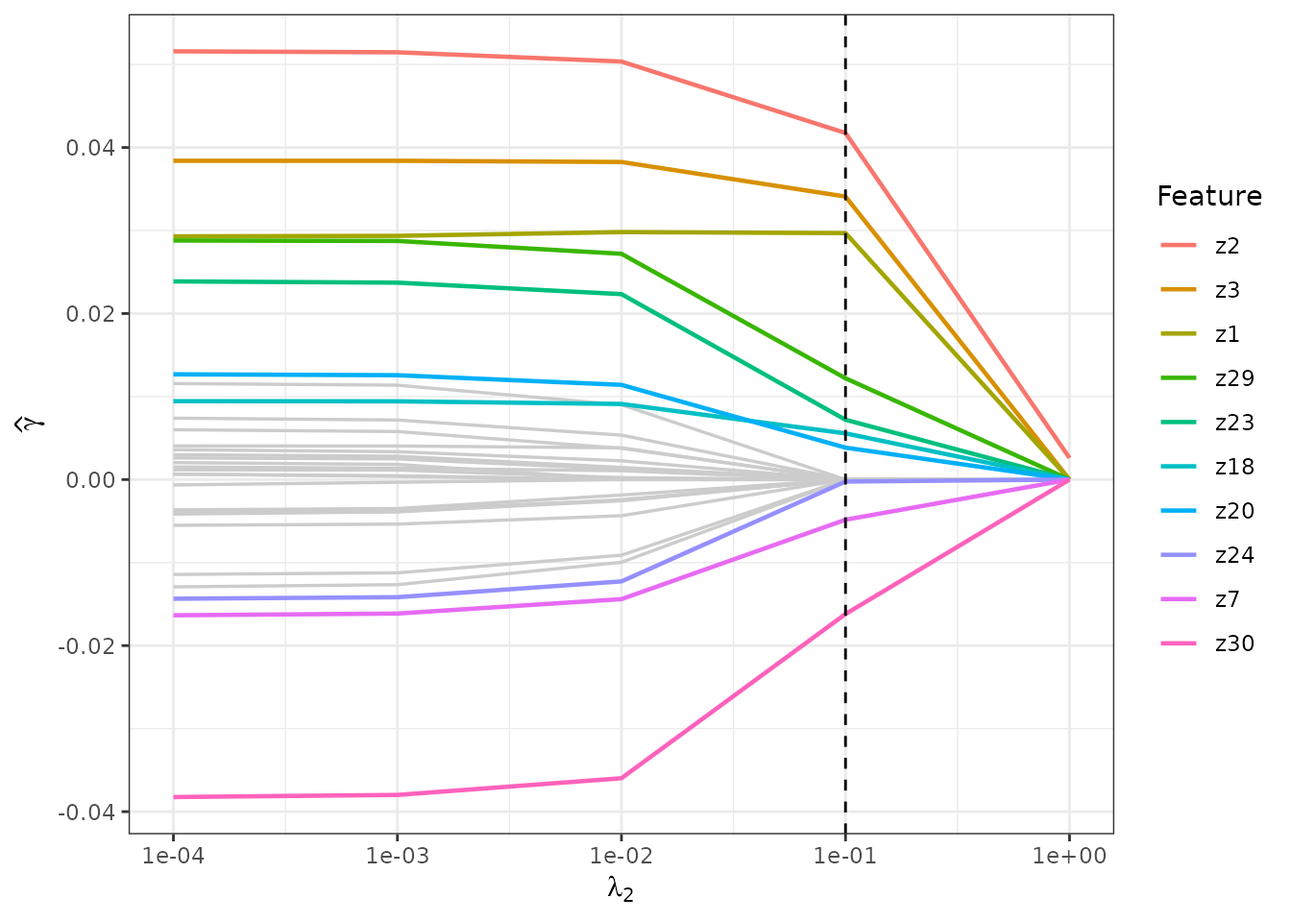
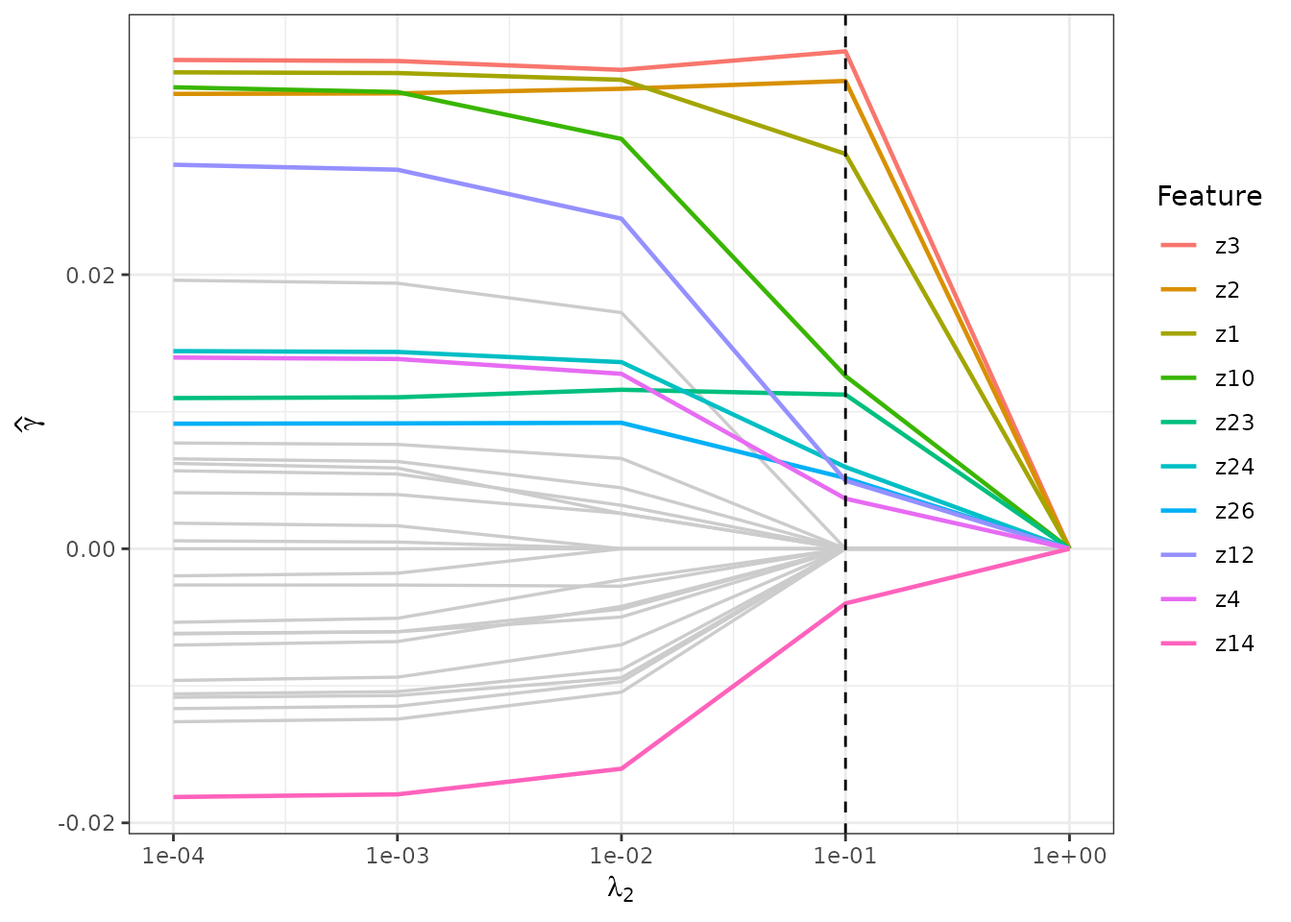
Deploying to gh-pages from @ rajan-shankar/ccreds@e83635300465986387b761c8b1dbfe0ec465d88c 🚀

diff --git a/articles/ccreds-workflow.html b/articles/ccreds-workflow.html
@@ -111,7 +111,7 @@ overlapping support, so that some features affect only the response,
 some affect only the censored covariate, and some affect both. We set
 the censoring rate to be approximately 50%.</p>
 <div class="sourceCode" id="cb2"><pre class="downlit sourceCode r">
-<code class="sourceCode R"><span><span class="fu"><a href="https://rdrr.io/r/base/Random.html" class="external-link">set.seed</a></span><span class="op">(</span><span class="fl">8371</span><span class="op">)</span></span>
+<code class="sourceCode R"><span><span class="fu"><a href="https://rdrr.io/r/base/Random.html" class="external-link">set.seed</a></span><span class="op">(</span><span class="fl">2026</span><span class="op">)</span></span>
 <span></span>
 <span><span class="va">n</span> <span class="op">&lt;-</span> <span class="fl">200</span></span>
 <span><span class="va">p</span> <span class="op">&lt;-</span> <span class="fl">30</span></span>
@@ -165,27 +165,27 @@ the censoring rate to be approximately 50%.</p>
 <span></span>
 <span><span class="va">dat</span></span>
 <span><span class="co">#&gt; <span style="color: #949494;"># A tibble: 200 × 34</span></span></span>
-<span><span class="co">#&gt;     case     y     w     d        z1     z2      z3        z4      z5    z6</span></span>
-<span><span class="co">#&gt;    <span style="color: #949494; font-style: italic;">&lt;int&gt;</span> <span style="color: #949494; font-style: italic;">&lt;dbl&gt;</span> <span style="color: #949494; font-style: italic;">&lt;dbl&gt;</span> <span style="color: #949494; font-style: italic;">&lt;dbl&gt;</span>     <span style="color: #949494; font-style: italic;">&lt;dbl&gt;</span>  <span style="color: #949494; font-style: italic;">&lt;dbl&gt;</span>   <span style="color: #949494; font-style: italic;">&lt;dbl&gt;</span>     <span style="color: #949494; font-style: italic;">&lt;dbl&gt;</span>   <span style="color: #949494; font-style: italic;">&lt;dbl&gt;</span> <span style="color: #949494; font-style: italic;">&lt;dbl&gt;</span></span></span>
-<span><span class="co">#&gt; <span style="color: #BCBCBC;"> 1</span>     1  70.9  4.58     0 -<span style="color: #BB0000;">3.65</span>     -<span style="color: #BB0000;">1.37</span>   5.27   10.2       4.54    7.54</span></span>
-<span><span class="co">#&gt; <span style="color: #BCBCBC;"> 2</span>     2 157.  12.6      0  2.78      4.35   3.78    5.21      7.00    1.56</span></span>
-<span><span class="co">#&gt; <span style="color: #BCBCBC;"> 3</span>     3 156.  12.0      1  1.80     -<span style="color: #BB0000;">0.182</span> -<span style="color: #BB0000;">1.09</span>   -<span style="color: #BB0000;">3.97</span>     -<span style="color: #BB0000;">2.81</span>    1.44</span></span>
-<span><span class="co">#&gt; <span style="color: #BCBCBC;"> 4</span>     4  26.4  4.13     1  0.227    -<span style="color: #BB0000;">1.15</span>  -<span style="color: #BB0000;">1.44</span>   -<span style="color: #BB0000;">6.43</span>     -<span style="color: #BB0000;">5.97</span>   -<span style="color: #BB0000;">1.22</span></span></span>
-<span><span class="co">#&gt; <span style="color: #BCBCBC;"> 5</span>     5  45.3  5.27     1 -<span style="color: #BB0000;">1.56</span>     -<span style="color: #BB0000;">2.30</span>   0.606   0.970     6.37    5.09</span></span>
-<span><span class="co">#&gt; <span style="color: #BCBCBC;"> 6</span>     6 122.   2.02     0 -<span style="color: #BB0000;">0.000</span><span style="color: #BB0000; text-decoration: underline;">930</span> -<span style="color: #BB0000;">2.10</span>   0.476  -<span style="color: #BB0000;">2.46</span>      5.04    4.09</span></span>
-<span><span class="co">#&gt; <span style="color: #BCBCBC;"> 7</span>     7  24.9  1.37     0 -<span style="color: #BB0000;">3.73</span>     -<span style="color: #BB0000;">4.34</span>  -<span style="color: #BB0000;">1.58</span>   -<span style="color: #BB0000;">0.000</span><span style="color: #BB0000; text-decoration: underline;">185</span>  0.026<span style="text-decoration: underline;">0</span>  3.69</span></span>
-<span><span class="co">#&gt; <span style="color: #BCBCBC;"> 8</span>     8 128.   7.74     1 -<span style="color: #BB0000;">0.091</span><span style="color: #BB0000; text-decoration: underline;">1</span>    3.58   2.09    2.92      5.13    1.11</span></span>
-<span><span class="co">#&gt; <span style="color: #BCBCBC;"> 9</span>     9  96.6  7.02     1 -<span style="color: #BB0000;">0.101</span>     2.45   2.64    1.69      1.21    2.16</span></span>
-<span><span class="co">#&gt; <span style="color: #BCBCBC;">10</span>    10 113.   5.54     0 -<span style="color: #BB0000;">4.11</span>     -<span style="color: #BB0000;">1.80</span>   0.093<span style="text-decoration: underline;">6</span> -<span style="color: #BB0000;">4.47</span>     -<span style="color: #BB0000;">1.48</span>   -<span style="color: #BB0000;">1.56</span></span></span>
+<span><span class="co">#&gt;     case      y     w     d     z1      z2     z3       z4     z5      z6    z7</span></span>
+<span><span class="co">#&gt;    <span style="color: #949494; font-style: italic;">&lt;int&gt;</span>  <span style="color: #949494; font-style: italic;">&lt;dbl&gt;</span> <span style="color: #949494; font-style: italic;">&lt;dbl&gt;</span> <span style="color: #949494; font-style: italic;">&lt;dbl&gt;</span>  <span style="color: #949494; font-style: italic;">&lt;dbl&gt;</span>   <span style="color: #949494; font-style: italic;">&lt;dbl&gt;</span>  <span style="color: #949494; font-style: italic;">&lt;dbl&gt;</span>    <span style="color: #949494; font-style: italic;">&lt;dbl&gt;</span>  <span style="color: #949494; font-style: italic;">&lt;dbl&gt;</span>   <span style="color: #949494; font-style: italic;">&lt;dbl&gt;</span> <span style="color: #949494; font-style: italic;">&lt;dbl&gt;</span></span></span>
+<span><span class="co">#&gt; <span style="color: #BCBCBC;"> 1</span>     1  -<span style="color: #BB0000;">6.33</span>  3.72     0 -<span style="color: #BB0000;">3.80</span>  -<span style="color: #BB0000;">3.24</span>   -<span style="color: #BB0000;">1.85</span>  -<span style="color: #BB0000;">0.023</span><span style="color: #BB0000; text-decoration: underline;">1</span>  -<span style="color: #BB0000;">3.34</span>  -<span style="color: #BB0000;">1.43</span>    4.59</span></span>
+<span><span class="co">#&gt; <span style="color: #BCBCBC;"> 2</span>     2  23.5   3.46     1 -<span style="color: #BB0000;">4.53</span>  -<span style="color: #BB0000;">0.069</span><span style="color: #BB0000; text-decoration: underline;">0</span> -<span style="color: #BB0000;">3.93</span>   2.98     7.22   5.55    2.89</span></span>
+<span><span class="co">#&gt; <span style="color: #BCBCBC;"> 3</span>     3  -<span style="color: #BB0000;">3.79</span>  2.85     0  0.698 -<span style="color: #BB0000;">7.17</span>   -<span style="color: #BB0000;">6.90</span>  -<span style="color: #BB0000;">1.07</span>     2.17  -<span style="color: #BB0000;">1.17</span>   -<span style="color: #BB0000;">1.55</span></span></span>
+<span><span class="co">#&gt; <span style="color: #BCBCBC;"> 4</span>     4  -<span style="color: #BB0000;">2.67</span>  3.63     1 -<span style="color: #BB0000;">5.12</span>  -<span style="color: #BB0000;">0.847</span>  -<span style="color: #BB0000;">0.182</span> -<span style="color: #BB0000;">4.16</span>    -<span style="color: #BB0000;">2.85</span>  -<span style="color: #BB0000;">4.43</span>   -<span style="color: #BB0000;">4.50</span></span></span>
+<span><span class="co">#&gt; <span style="color: #BCBCBC;"> 5</span>     5 159.    7.11     0  3.32  -<span style="color: #BB0000;">0.365</span>  -<span style="color: #BB0000;">1.42</span>  -<span style="color: #BB0000;">4.99</span>     0.946  0.200   2.99</span></span>
+<span><span class="co">#&gt; <span style="color: #BCBCBC;"> 6</span>     6  95.5   3.86     0  1.23  -<span style="color: #BB0000;">1.26</span>    3.49   0.007<span style="text-decoration: underline;">96</span>  3.45   0.059<span style="text-decoration: underline;">4</span>  2.18</span></span>
+<span><span class="co">#&gt; <span style="color: #BCBCBC;"> 7</span>     7   5.01  4.32     1 -<span style="color: #BB0000;">3.31</span>   2.51    3.72   4.71     3.38   4.61    3.32</span></span>
+<span><span class="co">#&gt; <span style="color: #BCBCBC;"> 8</span>     8 173.    6.34     0  1.74   0.959   0.681  1.35     4.43   5.00    2.85</span></span>
+<span><span class="co">#&gt; <span style="color: #BCBCBC;"> 9</span>     9 226.   11.2      0  5.11   4.75    2.92  -<span style="color: #BB0000;">0.642</span>    0.462 -<span style="color: #BB0000;">1.39</span>   -<span style="color: #BB0000;">5.84</span></span></span>
+<span><span class="co">#&gt; <span style="color: #BCBCBC;">10</span>    10  54.8   8.13     1  1.18  -<span style="color: #BB0000;">1.45</span>    2.00  -<span style="color: #BB0000;">0.840</span>   -<span style="color: #BB0000;">0.143</span>  2.43    2.77</span></span>
 <span><span class="co">#&gt; <span style="color: #949494;"># ℹ 190 more rows</span></span></span>
-<span><span class="co">#&gt; <span style="color: #949494;"># ℹ 24 more variables: z7 &lt;dbl&gt;, z8 &lt;dbl&gt;, z9 &lt;dbl&gt;, z10 &lt;dbl&gt;, z11 &lt;dbl&gt;,</span></span></span>
-<span><span class="co">#&gt; <span style="color: #949494;">#   z12 &lt;dbl&gt;, z13 &lt;dbl&gt;, z14 &lt;dbl&gt;, z15 &lt;dbl&gt;, z16 &lt;dbl&gt;, z17 &lt;dbl&gt;,</span></span></span>
-<span><span class="co">#&gt; <span style="color: #949494;">#   z18 &lt;dbl&gt;, z19 &lt;dbl&gt;, z20 &lt;dbl&gt;, z21 &lt;dbl&gt;, z22 &lt;dbl&gt;, z23 &lt;dbl&gt;,</span></span></span>
-<span><span class="co">#&gt; <span style="color: #949494;">#   z24 &lt;dbl&gt;, z25 &lt;dbl&gt;, z26 &lt;dbl&gt;, z27 &lt;dbl&gt;, z28 &lt;dbl&gt;, z29 &lt;dbl&gt;, z30 &lt;dbl&gt;</span></span></span></code></pre></div>
+<span><span class="co">#&gt; <span style="color: #949494;"># ℹ 23 more variables: z8 &lt;dbl&gt;, z9 &lt;dbl&gt;, z10 &lt;dbl&gt;, z11 &lt;dbl&gt;, z12 &lt;dbl&gt;,</span></span></span>
+<span><span class="co">#&gt; <span style="color: #949494;">#   z13 &lt;dbl&gt;, z14 &lt;dbl&gt;, z15 &lt;dbl&gt;, z16 &lt;dbl&gt;, z17 &lt;dbl&gt;, z18 &lt;dbl&gt;,</span></span></span>
+<span><span class="co">#&gt; <span style="color: #949494;">#   z19 &lt;dbl&gt;, z20 &lt;dbl&gt;, z21 &lt;dbl&gt;, z22 &lt;dbl&gt;, z23 &lt;dbl&gt;, z24 &lt;dbl&gt;,</span></span></span>
+<span><span class="co">#&gt; <span style="color: #949494;">#   z25 &lt;dbl&gt;, z26 &lt;dbl&gt;, z27 &lt;dbl&gt;, z28 &lt;dbl&gt;, z29 &lt;dbl&gt;, z30 &lt;dbl&gt;</span></span></span></code></pre></div>
 <div class="sourceCode" id="cb3"><pre class="downlit sourceCode r">
 <code class="sourceCode R"><span><span class="co"># Censoring rate should be approximately 50%</span></span>
 <span><span class="fu"><a href="https://rdrr.io/r/base/mean.html" class="external-link">mean</a></span><span class="op">(</span><span class="va">dat</span><span class="op">$</span><span class="va">d</span> <span class="op">==</span> <span class="fl">0</span><span class="op">)</span></span>
-<span><span class="co">#&gt; [1] 0.475</span></span></code></pre></div>
+<span><span class="co">#&gt; [1] 0.46</span></span></code></pre></div>
 </div>
 <div class="section level2">
 <h2 id="fit-the-model">Fit the model<a class="anchor" aria-label="anchor" href="#fit-the-model"></a>
@@ -208,23 +208,24 @@ would use a finer grid and potentially run in parallel with
 <span><span class="co">#&gt; <span style="color: #949494;"># A tibble: 25 × 8</span></span></span>
 <span><span class="co">#&gt;    lambda_1 lambda_2 full_fit          CV_MAE_y CV_MAE_y_SE CV_MAE_x CV_MAE_x_SE</span></span>
 <span><span class="co">#&gt;       <span style="color: #949494; font-style: italic;">&lt;dbl&gt;</span>    <span style="color: #949494; font-style: italic;">&lt;dbl&gt;</span> <span style="color: #949494; font-style: italic;">&lt;list&gt;</span>               <span style="color: #949494; font-style: italic;">&lt;dbl&gt;</span>       <span style="color: #949494; font-style: italic;">&lt;dbl&gt;</span>    <span style="color: #949494; font-style: italic;">&lt;dbl&gt;</span>       <span style="color: #949494; font-style: italic;">&lt;dbl&gt;</span></span></span>
-<span><span class="co">#&gt; <span style="color: #BCBCBC;"> 1</span>   0.000<span style="text-decoration: underline;">1</span>   0.000<span style="text-decoration: underline;">1</span> <span style="color: #949494;">&lt;named list [13]&gt;</span>     32.7        1.77     2.92       0.267</span></span>
-<span><span class="co">#&gt; <span style="color: #BCBCBC;"> 2</span>   0.000<span style="text-decoration: underline;">1</span>   0.001  <span style="color: #949494;">&lt;named list [13]&gt;</span>     32.6        1.76     2.92       0.265</span></span>
-<span><span class="co">#&gt; <span style="color: #BCBCBC;"> 3</span>   0.000<span style="text-decoration: underline;">1</span>   0.01   <span style="color: #949494;">&lt;named list [13]&gt;</span>     32.1        1.58     2.88       0.243</span></span>
-<span><span class="co">#&gt; <span style="color: #BCBCBC;"> 4</span>   0.000<span style="text-decoration: underline;">1</span>   0.1    <span style="color: #949494;">&lt;named list [13]&gt;</span>     29.8        1.52     2.70       0.160</span></span>
-<span><span class="co">#&gt; <span style="color: #BCBCBC;"> 5</span>   0.000<span style="text-decoration: underline;">1</span>   1      <span style="color: #949494;">&lt;named list [13]&gt;</span>     33.4        1.23     3.00       0.204</span></span>
-<span><span class="co">#&gt; <span style="color: #BCBCBC;"> 6</span>   0.001    0.000<span style="text-decoration: underline;">1</span> <span style="color: #949494;">&lt;named list [13]&gt;</span>     32.7        1.79     2.92       0.268</span></span>
-<span><span class="co">#&gt; <span style="color: #BCBCBC;"> 7</span>   0.001    0.001  <span style="color: #949494;">&lt;named list [13]&gt;</span>     32.6        1.77     2.92       0.266</span></span>
-<span><span class="co">#&gt; <span style="color: #BCBCBC;"> 8</span>   0.001    0.01   <span style="color: #949494;">&lt;named list [13]&gt;</span>     32.0        1.59     2.88       0.244</span></span>
-<span><span class="co">#&gt; <span style="color: #BCBCBC;"> 9</span>   0.001    0.1    <span style="color: #949494;">&lt;named list [13]&gt;</span>     29.7        1.50     2.69       0.160</span></span>
-<span><span class="co">#&gt; <span style="color: #BCBCBC;">10</span>   0.001    1      <span style="color: #949494;">&lt;named list [13]&gt;</span>     33.4        1.22     3.00       0.203</span></span>
+<span><span class="co">#&gt; <span style="color: #BCBCBC;"> 1</span>   0.000<span style="text-decoration: underline;">1</span>   0.000<span style="text-decoration: underline;">1</span> <span style="color: #949494;">&lt;named list [13]&gt;</span>     38.9        2.64     3.19       0.401</span></span>
+<span><span class="co">#&gt; <span style="color: #BCBCBC;"> 2</span>   0.000<span style="text-decoration: underline;">1</span>   0.001  <span style="color: #949494;">&lt;named list [13]&gt;</span>     38.9        2.63     3.19       0.399</span></span>
+<span><span class="co">#&gt; <span style="color: #BCBCBC;"> 3</span>   0.000<span style="text-decoration: underline;">1</span>   0.01   <span style="color: #949494;">&lt;named list [13]&gt;</span>     38.7        2.48     3.15       0.380</span></span>
+<span><span class="co">#&gt; <span style="color: #BCBCBC;"> 4</span>   0.000<span style="text-decoration: underline;">1</span>   0.1    <span style="color: #949494;">&lt;named list [13]&gt;</span>     37.3        1.85     2.93       0.300</span></span>
+<span><span class="co">#&gt; <span style="color: #BCBCBC;"> 5</span>   0.000<span style="text-decoration: underline;">1</span>   1      <span style="color: #949494;">&lt;named list [13]&gt;</span>     40.1        1.28     2.97       0.178</span></span>
+<span><span class="co">#&gt; <span style="color: #BCBCBC;"> 6</span>   0.001    0.000<span style="text-decoration: underline;">1</span> <span style="color: #949494;">&lt;named list [13]&gt;</span>     38.9        2.68     3.18       0.400</span></span>
+<span><span class="co">#&gt; <span style="color: #BCBCBC;"> 7</span>   0.001    0.001  <span style="color: #949494;">&lt;named list [13]&gt;</span>     38.8        2.67     3.18       0.398</span></span>
+<span><span class="co">#&gt; <span style="color: #BCBCBC;"> 8</span>   0.001    0.01   <span style="color: #949494;">&lt;named list [13]&gt;</span>     38.7        2.52     3.14       0.378</span></span>
+<span><span class="co">#&gt; <span style="color: #BCBCBC;"> 9</span>   0.001    0.1    <span style="color: #949494;">&lt;named list [13]&gt;</span>     37.2        1.93     2.91       0.300</span></span>
+<span><span class="co">#&gt; <span style="color: #BCBCBC;">10</span>   0.001    1      <span style="color: #949494;">&lt;named list [13]&gt;</span>     40.1        1.21     2.96       0.178</span></span>
 <span><span class="co">#&gt; <span style="color: #949494;"># ℹ 15 more rows</span></span></span>
 <span><span class="co">#&gt; <span style="color: #949494;"># ℹ 1 more variable: time &lt;drtn&gt;</span></span></span>
 <span></span>
 <span><span class="fu"><a href="https://rdrr.io/r/base/Round.html" class="external-link">round</a></span><span class="op">(</span><span class="va">results</span><span class="op">$</span><span class="va">time</span>, digits <span class="op">=</span> <span class="fl">2</span><span class="op">)</span></span>
 <span><span class="co">#&gt; Time differences in secs</span></span>
-<span><span class="co">#&gt;  [1] 7.30 6.89 6.78 6.10 5.90 5.85 5.88 5.92 5.25 5.27 4.01 4.08 3.94 3.60 3.83</span></span>
-<span><span class="co">#&gt; [16] 2.91 2.91 2.91 2.66 2.72 2.92 2.76 2.81 2.58 2.55</span></span></code></pre></div>
+<span><span class="co">#&gt;  [1] 10.50  9.97  9.63  8.85  8.06  8.78  8.70  8.68  7.90  7.19  5.59  5.67</span></span>
+<span><span class="co">#&gt; [13]  5.49  4.97  4.50  4.01  3.98  3.92  3.23  2.93  4.39  4.21  4.17  3.64</span></span>
+<span><span class="co">#&gt; [25]  3.18</span></span></code></pre></div>
 </div>
 <div class="section level2">
 <h2 id="identify-the-best-model">Identify the best model<a class="anchor" aria-label="anchor" href="#identify-the-best-model"></a>
@@ -248,12 +249,12 @@ to the truth:</p>
 <span><span class="co">#&gt; <span style="color: #949494;"># A tibble: 30 × 3</span></span></span>
 <span><span class="co">#&gt;    feature true_beta estimated_beta</span></span>
 <span><span class="co">#&gt;    <span style="color: #949494; font-style: italic;">&lt;chr&gt;</span>       <span style="color: #949494; font-style: italic;">&lt;dbl&gt;</span>          <span style="color: #949494; font-style: italic;">&lt;dbl&gt;</span></span></span>
-<span><span class="co">#&gt; <span style="color: #BCBCBC;"> 1</span> z1              4          3.23 </span></span>
+<span><span class="co">#&gt; <span style="color: #BCBCBC;"> 1</span> z1              4          3.51 </span></span>
 <span><span class="co">#&gt; <span style="color: #BCBCBC;"> 2</span> z2              4          4.34 </span></span>
-<span><span class="co">#&gt; <span style="color: #BCBCBC;"> 3</span> z3              2          1.54 </span></span>
+<span><span class="co">#&gt; <span style="color: #BCBCBC;"> 3</span> z3              2          1.38 </span></span>
 <span><span class="co">#&gt; <span style="color: #BCBCBC;"> 4</span> z4              0          0    </span></span>
-<span><span class="co">#&gt; <span style="color: #BCBCBC;"> 5</span> z5              0          0    </span></span>
-<span><span class="co">#&gt; <span style="color: #BCBCBC;"> 6</span> z6              0          0.329</span></span>
+<span><span class="co">#&gt; <span style="color: #BCBCBC;"> 5</span> z5              0          0.161</span></span>
+<span><span class="co">#&gt; <span style="color: #BCBCBC;"> 6</span> z6              0          0    </span></span>
 <span><span class="co">#&gt; <span style="color: #BCBCBC;"> 7</span> z7              0          0    </span></span>
 <span><span class="co">#&gt; <span style="color: #BCBCBC;"> 8</span> z8              0          0    </span></span>
 <span><span class="co">#&gt; <span style="color: #BCBCBC;"> 9</span> z9              0          0    </span></span>
@@ -269,23 +270,23 @@ to the truth:</p>
 <span><span class="co">#&gt; <span style="color: #949494;"># A tibble: 30 × 3</span></span></span>
 <span><span class="co">#&gt;    feature true_gamma estimated_gamma</span></span>
 <span><span class="co">#&gt;    <span style="color: #949494; font-style: italic;">&lt;chr&gt;</span>        <span style="color: #949494; font-style: italic;">&lt;dbl&gt;</span>           <span style="color: #949494; font-style: italic;">&lt;dbl&gt;</span></span></span>
-<span><span class="co">#&gt; <span style="color: #BCBCBC;"> 1</span> z1            0.04         0.029<span style="text-decoration: underline;">7</span> </span></span>
-<span><span class="co">#&gt; <span style="color: #BCBCBC;"> 2</span> z2            0.04         0.041<span style="text-decoration: underline;">8</span> </span></span>
-<span><span class="co">#&gt; <span style="color: #BCBCBC;"> 3</span> z3            0.02         0.034<span style="text-decoration: underline;">1</span> </span></span>
-<span><span class="co">#&gt; <span style="color: #BCBCBC;"> 4</span> z4            0.02         0      </span></span>
+<span><span class="co">#&gt; <span style="color: #BCBCBC;"> 1</span> z1            0.04         0.028<span style="text-decoration: underline;">8</span> </span></span>
+<span><span class="co">#&gt; <span style="color: #BCBCBC;"> 2</span> z2            0.04         0.034<span style="text-decoration: underline;">1</span> </span></span>
+<span><span class="co">#&gt; <span style="color: #BCBCBC;"> 3</span> z3            0.02         0.036<span style="text-decoration: underline;">3</span> </span></span>
+<span><span class="co">#&gt; <span style="color: #BCBCBC;"> 4</span> z4            0.02         0.003<span style="text-decoration: underline;">65</span></span></span>
 <span><span class="co">#&gt; <span style="color: #BCBCBC;"> 5</span> z5            0            0      </span></span>
 <span><span class="co">#&gt; <span style="color: #BCBCBC;"> 6</span> z6            0            0      </span></span>
-<span><span class="co">#&gt; <span style="color: #BCBCBC;"> 7</span> z7            0           -<span style="color: #BB0000;">0.004</span><span style="color: #BB0000; text-decoration: underline;">84</span></span></span>
+<span><span class="co">#&gt; <span style="color: #BCBCBC;"> 7</span> z7            0            0      </span></span>
 <span><span class="co">#&gt; <span style="color: #BCBCBC;"> 8</span> z8            0            0      </span></span>
 <span><span class="co">#&gt; <span style="color: #BCBCBC;"> 9</span> z9            0            0      </span></span>
-<span><span class="co">#&gt; <span style="color: #BCBCBC;">10</span> z10           0            0      </span></span>
+<span><span class="co">#&gt; <span style="color: #BCBCBC;">10</span> z10           0            0.012<span style="text-decoration: underline;">6</span> </span></span>
 <span><span class="co">#&gt; <span style="color: #949494;"># ℹ 20 more rows</span></span></span></code></pre></div>
 </div>
 <div class="section level2">
 <h2 id="visualise-cross-validation-heatmap">Visualise: Cross-validation heatmap<a class="anchor" aria-label="anchor" href="#visualise-cross-validation-heatmap"></a>
 </h2>
 <p><code><a href="../reference/plot_cv.html">plot_cv()</a></code> shows how the CV metric varies over the
-penalty grid. The white cross marks the optimal pair.</p>
+penalty grid. The red cross marks the optimal pair.</p>
 <div class="sourceCode" id="cb7"><pre class="downlit sourceCode r">
 <code class="sourceCode R"><span><span class="fu"><a href="../reference/plot_cv.html">plot_cv</a></span><span class="op">(</span><span class="va">results</span><span class="op">)</span></span></code></pre></div>
 <p><img src="ccreds-workflow_files/figure-html/plot-cv-1.png" class="r-plt" alt="Heatmap of cross-validated MAE over the lambda grid." width="672"></p>

diff --git a/articles/ccreds-workflow.md b/articles/ccreds-workflow.md
@@ -44,7 +44,7 @@ the censoring rate to be approximately 50%.
 
 ``` r
 
-set.seed(8371)
+set.seed(2026)
 
 n <- 200
 p <- 30
@@ -98,30 +98,30 @@ dat <- tibble(
 
 dat
 #> # A tibble: 200 × 34
-#>     case     y     w     d        z1     z2      z3        z4      z5    z6
-#>    <int> <dbl> <dbl> <dbl>     <dbl>  <dbl>   <dbl>     <dbl>   <dbl> <dbl>
-#>  1     1  70.9  4.58     0 -3.65     -1.37   5.27   10.2       4.54    7.54
-#>  2     2 157.  12.6      0  2.78      4.35   3.78    5.21      7.00    1.56
-#>  3     3 156.  12.0      1  1.80     -0.182 -1.09   -3.97     -2.81    1.44
-#>  4     4  26.4  4.13     1  0.227    -1.15  -1.44   -6.43     -5.97   -1.22
-#>  5     5  45.3  5.27     1 -1.56     -2.30   0.606   0.970     6.37    5.09
-#>  6     6 122.   2.02     0 -0.000930 -2.10   0.476  -2.46      5.04    4.09
-#>  7     7  24.9  1.37     0 -3.73     -4.34  -1.58   -0.000185  0.0260  3.69
-#>  8     8 128.   7.74     1 -0.0911    3.58   2.09    2.92      5.13    1.11
-#>  9     9  96.6  7.02     1 -0.101     2.45   2.64    1.69      1.21    2.16
-#> 10    10 113.   5.54     0 -4.11     -1.80   0.0936 -4.47     -1.48   -1.56
+#>     case      y     w     d     z1      z2     z3       z4     z5      z6    z7
+#>    <int>  <dbl> <dbl> <dbl>  <dbl>   <dbl>  <dbl>    <dbl>  <dbl>   <dbl> <dbl>
+#>  1     1  -6.33  3.72     0 -3.80  -3.24   -1.85  -0.0231  -3.34  -1.43    4.59
+#>  2     2  23.5   3.46     1 -4.53  -0.0690 -3.93   2.98     7.22   5.55    2.89
+#>  3     3  -3.79  2.85     0  0.698 -7.17   -6.90  -1.07     2.17  -1.17   -1.55
+#>  4     4  -2.67  3.63     1 -5.12  -0.847  -0.182 -4.16    -2.85  -4.43   -4.50
+#>  5     5 159.    7.11     0  3.32  -0.365  -1.42  -4.99     0.946  0.200   2.99
+#>  6     6  95.5   3.86     0  1.23  -1.26    3.49   0.00796  3.45   0.0594  2.18
+#>  7     7   5.01  4.32     1 -3.31   2.51    3.72   4.71     3.38   4.61    3.32
+#>  8     8 173.    6.34     0  1.74   0.959   0.681  1.35     4.43   5.00    2.85
+#>  9     9 226.   11.2      0  5.11   4.75    2.92  -0.642    0.462 -1.39   -5.84
+#> 10    10  54.8   8.13     1  1.18  -1.45    2.00  -0.840   -0.143  2.43    2.77
 #> # ℹ 190 more rows
-#> # ℹ 24 more variables: z7 <dbl>, z8 <dbl>, z9 <dbl>, z10 <dbl>, z11 <dbl>,
-#> #   z12 <dbl>, z13 <dbl>, z14 <dbl>, z15 <dbl>, z16 <dbl>, z17 <dbl>,
-#> #   z18 <dbl>, z19 <dbl>, z20 <dbl>, z21 <dbl>, z22 <dbl>, z23 <dbl>,
-#> #   z24 <dbl>, z25 <dbl>, z26 <dbl>, z27 <dbl>, z28 <dbl>, z29 <dbl>, z30 <dbl>
+#> # ℹ 23 more variables: z8 <dbl>, z9 <dbl>, z10 <dbl>, z11 <dbl>, z12 <dbl>,
+#> #   z13 <dbl>, z14 <dbl>, z15 <dbl>, z16 <dbl>, z17 <dbl>, z18 <dbl>,
+#> #   z19 <dbl>, z20 <dbl>, z21 <dbl>, z22 <dbl>, z23 <dbl>, z24 <dbl>,
+#> #   z25 <dbl>, z26 <dbl>, z27 <dbl>, z28 <dbl>, z29 <dbl>, z30 <dbl>
 ```
 
 ``` r
 
 # Censoring rate should be approximately 50%
 mean(dat$d == 0)
-#> [1] 0.475
+#> [1] 0.46
 ```
 
 ## Fit the model
@@ -145,23 +145,24 @@ results
 #> # A tibble: 25 × 8
 #>    lambda_1 lambda_2 full_fit          CV_MAE_y CV_MAE_y_SE CV_MAE_x CV_MAE_x_SE
 #>       <dbl>    <dbl> <list>               <dbl>       <dbl>    <dbl>       <dbl>
-#>  1   0.0001   0.0001 <named list [13]>     32.7        1.77     2.92       0.267
-#>  2   0.0001   0.001  <named list [13]>     32.6        1.76     2.92       0.265
-#>  3   0.0001   0.01   <named list [13]>     32.1        1.58     2.88       0.243
-#>  4   0.0001   0.1    <named list [13]>     29.8        1.52     2.70       0.160
-#>  5   0.0001   1      <named list [13]>     33.4        1.23     3.00       0.204
-#>  6   0.001    0.0001 <named list [13]>     32.7        1.79     2.92       0.268
-#>  7   0.001    0.001  <named list [13]>     32.6        1.77     2.92       0.266
-#>  8   0.001    0.01   <named list [13]>     32.0        1.59     2.88       0.244
-#>  9   0.001    0.1    <named list [13]>     29.7        1.50     2.69       0.160
-#> 10   0.001    1      <named list [13]>     33.4        1.22     3.00       0.203
+#>  1   0.0001   0.0001 <named list [13]>     38.9        2.64     3.19       0.401
+#>  2   0.0001   0.001  <named list [13]>     38.9        2.63     3.19       0.399
+#>  3   0.0001   0.01   <named list [13]>     38.7        2.48     3.15       0.380
+#>  4   0.0001   0.1    <named list [13]>     37.3        1.85     2.93       0.300
+#>  5   0.0001   1      <named list [13]>     40.1        1.28     2.97       0.178
+#>  6   0.001    0.0001 <named list [13]>     38.9        2.68     3.18       0.400
+#>  7   0.001    0.001  <named list [13]>     38.8        2.67     3.18       0.398
+#>  8   0.001    0.01   <named list [13]>     38.7        2.52     3.14       0.378
+#>  9   0.001    0.1    <named list [13]>     37.2        1.93     2.91       0.300
+#> 10   0.001    1      <named list [13]>     40.1        1.21     2.96       0.178
 #> # ℹ 15 more rows
 #> # ℹ 1 more variable: time <drtn>
 
 round(results$time, digits = 2)
 #> Time differences in secs
-#>  [1] 7.30 6.89 6.78 6.10 5.90 5.85 5.88 5.92 5.25 5.27 4.01 4.08 3.94 3.60 3.83
-#> [16] 2.91 2.91 2.91 2.66 2.72 2.92 2.76 2.81 2.58 2.55
+#>  [1] 10.50  9.97  9.63  8.85  8.06  8.78  8.70  8.68  7.90  7.19  5.59  5.67
+#> [13]  5.49  4.97  4.50  4.01  3.98  3.92  3.23  2.93  4.39  4.21  4.17  3.64
+#> [25]  3.18
 ```
 
 ## Identify the best model
@@ -192,12 +193,12 @@ tibble(
 #> # A tibble: 30 × 3
 #>    feature true_beta estimated_beta
 #>    <chr>       <dbl>          <dbl>
-#>  1 z1              4          3.23 
+#>  1 z1              4          3.51 
 #>  2 z2              4          4.34 
-#>  3 z3              2          1.54 
+#>  3 z3              2          1.38 
 #>  4 z4              0          0    
-#>  5 z5              0          0    
-#>  6 z6              0          0.329
+#>  5 z5              0          0.161
+#>  6 z6              0          0    
 #>  7 z7              0          0    
 #>  8 z8              0          0    
 #>  9 z9              0          0    
@@ -213,23 +214,23 @@ tibble(
 #> # A tibble: 30 × 3
 #>    feature true_gamma estimated_gamma
 #>    <chr>        <dbl>           <dbl>
-#>  1 z1            0.04         0.0297 
-#>  2 z2            0.04         0.0418 
-#>  3 z3            0.02         0.0341 
-#>  4 z4            0.02         0      
+#>  1 z1            0.04         0.0288 
+#>  2 z2            0.04         0.0341 
+#>  3 z3            0.02         0.0363 
+#>  4 z4            0.02         0.00365
 #>  5 z5            0            0      
 #>  6 z6            0            0      
-#>  7 z7            0           -0.00484
+#>  7 z7            0            0      
 #>  8 z8            0            0      
 #>  9 z9            0            0      
-#> 10 z10           0            0      
+#> 10 z10           0            0.0126 
 #> # ℹ 20 more rows
 ```
 
 ## Visualise: Cross-validation heatmap
 
 [`plot_cv()`](https://rajan-shankar.github.io/ccreds/reference/plot_cv.md)
-shows how the CV metric varies over the penalty grid. The white cross
+shows how the CV metric varies over the penalty grid. The red cross
 marks the optimal pair.
 
 ``` r
